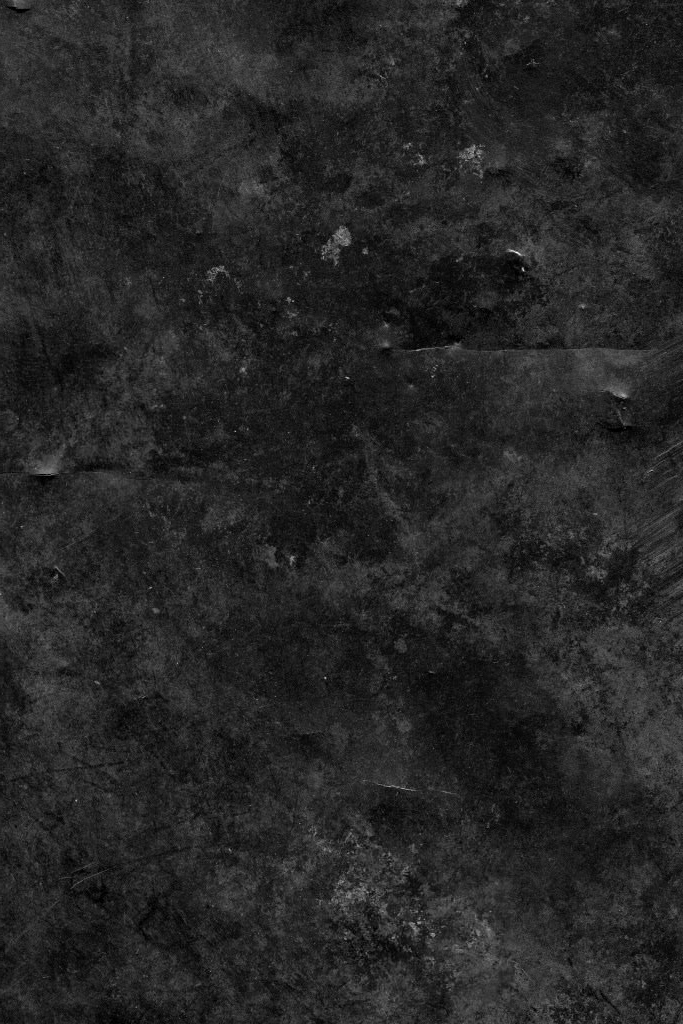
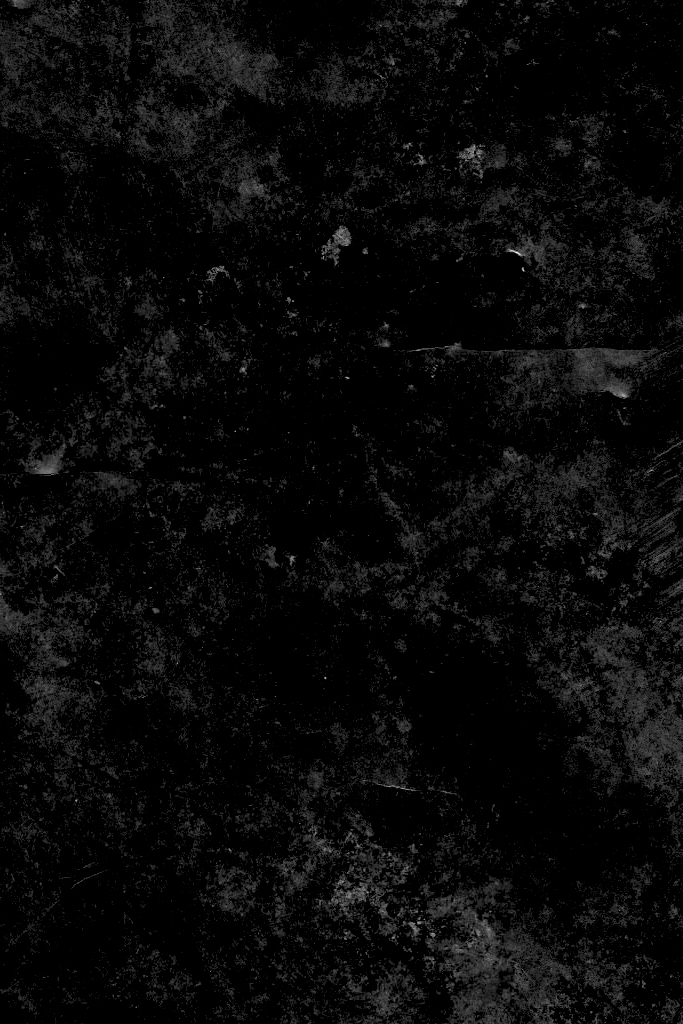
fixed bug when sending custom loadout to builder, darkened bg, and adjusted capitalization

diff --git a/lib/services/other_details.dart b/lib/services/other_details.dart
@@ -65,58 +65,52 @@ class OtherDetails extends StatelessWidget {
 
     Widget generalStatsWidget(Map generalData) {
       if (slot <= 1) {
-        return Padding(
-          padding: EdgeInsets.all(12),
-          child: Column(
-            crossAxisAlignment: CrossAxisAlignment.stretch,
-            children: [
-              Text(
-                'Ammo (# / Cost) :  ${generalData['ammo']} / ${generalData['ammo cost']} Parts',
-                textAlign: TextAlign.left,
-                style: TextStyle(
-                    color: Theme.of(context).accentColor, fontSize: 20),
-              ),
-              Text(
-                'Upgrade #1 :   ${generalData['cost lvl 1']} Parts',
-                textAlign: TextAlign.left,
-                style: TextStyle(
-                    color: Theme.of(context).accentColor, fontSize: 20),
-              ),
-              Text(
-                'Upgrade #2 :   ${generalData['cost lvl 2']} Parts',
-                textAlign: TextAlign.left,
-                style: TextStyle(
-                    color: Theme.of(context).accentColor, fontSize: 20),
-              ),
-            ],
-          ),
+        return Column(
+          crossAxisAlignment: CrossAxisAlignment.stretch,
+          children: [
+            Text(
+              'Ammo (# / Cost) :  ${generalData['ammo']} / ${generalData['ammo cost']} Parts',
+              textAlign: TextAlign.left,
+              style:
+                  TextStyle(color: Theme.of(context).accentColor, fontSize: 20),
+            ),
+            Text(
+              'Upgrade #1 :   ${generalData['cost lvl 1']} Parts',
+              textAlign: TextAlign.left,
+              style:
+                  TextStyle(color: Theme.of(context).accentColor, fontSize: 20),
+            ),
+            Text(
+              'Upgrade #2 :   ${generalData['cost lvl 2']} Parts',
+              textAlign: TextAlign.left,
+              style:
+                  TextStyle(color: Theme.of(context).accentColor, fontSize: 20),
+            ),
+          ],
         );
       } else {
-        return Padding(
-          padding: EdgeInsets.all(12),
-          child: Column(
-            crossAxisAlignment: CrossAxisAlignment.stretch,
-            children: [
-              Text(
-                'Purchase Cost :   ${generalData['purchase cost']} Parts',
-                textAlign: TextAlign.left,
-                style: TextStyle(
-                    color: Theme.of(context).accentColor, fontSize: 20),
-              ),
-              Text(
-                'Ammo (# / Initial Cost) :  ${generalData['ammo']} / ${generalData['initial ammo cost']} Parts',
-                textAlign: TextAlign.left,
-                style: TextStyle(
-                    color: Theme.of(context).accentColor, fontSize: 20),
-              ),
-              Text(
-                'Clip Size :   ${generalData['clip size']}',
-                textAlign: TextAlign.left,
-                style: TextStyle(
-                    color: Theme.of(context).accentColor, fontSize: 20),
-              ),
-            ],
-          ),
+        return Column(
+          crossAxisAlignment: CrossAxisAlignment.stretch,
+          children: [
+            Text(
+              'Purchase Cost :   ${generalData['purchase cost']} Parts',
+              textAlign: TextAlign.left,
+              style:
+                  TextStyle(color: Theme.of(context).accentColor, fontSize: 20),
+            ),
+            Text(
+              'Ammo (# / Initial Cost) :  ${generalData['ammo']} / ${generalData['initial ammo cost']} Parts',
+              textAlign: TextAlign.left,
+              style:
+                  TextStyle(color: Theme.of(context).accentColor, fontSize: 20),
+            ),
+            Text(
+              'Clip Size :   ${generalData['clip size']}',
+              textAlign: TextAlign.left,
+              style:
+                  TextStyle(color: Theme.of(context).accentColor, fontSize: 20),
+            ),
+          ],
         );
       }
     }
@@ -436,6 +430,12 @@ class OtherDetails extends StatelessWidget {
         return Column(
           crossAxisAlignment: CrossAxisAlignment.stretch,
           children: [
+            statBars(),
+            Divider(
+              thickness: 2,
+              height: 30,
+              color: Theme.of(context).accentColor,
+            ),
             Text(
               'General Stats',
               textAlign: TextAlign.left,
@@ -443,8 +443,13 @@ class OtherDetails extends StatelessWidget {
                   TextStyle(color: Theme.of(context).accentColor, fontSize: 25),
             ),
             Padding(
-              padding: const EdgeInsets.fromLTRB(12, 0, 12, 16),
+              padding: const EdgeInsets.fromLTRB(12, 12, 12, 0),
               child: generalStatsWidget(generalData),
+            ),
+            Divider(
+              thickness: 2,
+              height: 30,
+              color: Theme.of(context).accentColor,
             ),
             Text(
               'Damage Stats',
@@ -453,8 +458,13 @@ class OtherDetails extends StatelessWidget {
                   TextStyle(color: Theme.of(context).accentColor, fontSize: 25),
             ),
             Padding(
-              padding: const EdgeInsets.fromLTRB(12, 0, 12, 16),
+              padding: const EdgeInsets.fromLTRB(12, 0, 12, 12),
               child: damageStatsWidget(damageData),
+            ),
+            Divider(
+              thickness: 2,
+              height: 30,
+              color: Theme.of(context).accentColor,
             ),
             Text(
               'Upgrade Stats',
@@ -475,6 +485,12 @@ class OtherDetails extends StatelessWidget {
         return Column(
           crossAxisAlignment: CrossAxisAlignment.stretch,
           children: [
+            statBars(),
+            Divider(
+              thickness: 2,
+              height: 30,
+              color: Theme.of(context).accentColor,
+            ),
             Text(
               'General Stats',
               textAlign: TextAlign.left,
@@ -482,8 +498,13 @@ class OtherDetails extends StatelessWidget {
                   TextStyle(color: Theme.of(context).accentColor, fontSize: 25),
             ),
             Padding(
-              padding: const EdgeInsets.fromLTRB(12, 0, 12, 16),
+              padding: const EdgeInsets.fromLTRB(12, 12, 12, 0),
               child: generalStatsWidget(generalData),
+            ),
+            Divider(
+              thickness: 2,
+              height: 30,
+              color: Theme.of(context).accentColor,
             ),
             Text(
               'Damage Stats',
@@ -501,43 +522,10 @@ class OtherDetails extends StatelessWidget {
       return Container();
     }
 
-    if (slot <= 1) {
-      return Column(
-        crossAxisAlignment: CrossAxisAlignment.stretch,
-        children: [
-          statBars(),
-          Divider(
-            thickness: 2,
-            height: 30,
-            color: Theme.of(context).accentColor,
-          ),
-          statsWidgets(),
-        ],
-      );
-    } else if (slot == 6) {
-      return Column(
-        crossAxisAlignment: CrossAxisAlignment.stretch,
-        children: [
-          statBars(),
-          Divider(
-            thickness: 2,
-            height: 30,
-            color: Theme.of(context).accentColor,
-          ),
-          statsWidgets(),
-        ],
-      );
+    if (slot <= 1 || slot == 6) {
+      return statsWidgets();
     } else {
-      return Column(
-        children: [
-          Divider(
-            thickness: 2,
-            height: 30,
-            color: Theme.of(context).accentColor,
-          ),
-          statsWidgets(),
-        ],
-      );
+      return Container();
     }
   }
 }

diff --git a/lib/app.dart b/lib/app.dart
@@ -4,9 +4,11 @@ import 'package:flutter/material.dart';
 import 'package:provider/provider.dart';
 import 'package:tlou_loadout/loadout_model.dart';
 import 'package:tlou_loadout/my_loadouts_model.dart';
+import 'package:tlou_loadout/pages/item_select.dart';
 import 'package:tlou_loadout/pages/loadout_builder.dart';
 import 'package:tlou_loadout/pages/my_loadouts.dart';
 import 'package:path_provider/path_provider.dart';
+import 'package:firebase_dynamic_links/firebase_dynamic_links.dart';
 
 class App extends StatefulWidget {
   @override
@@ -17,9 +19,25 @@ class _AppState extends State<App> {
   AssetImage bg;
   final titleController = TextEditingController();
 
+  void initDynamicLinks() async {
+    final PendingDynamicLinkData data =
+        await FirebaseDynamicLinks.instance.getInitialLink();
+    final Uri deeplink = data?.link;
+
+    if (deeplink.path == '?q=01082617171775') {
+      Navigator.of(context).push(
+        PageRouteBuilder(
+          pageBuilder: (_, __, ___) => ItemSelect(),
+          transitionDuration: Duration(seconds: 0),
+        ),
+      );
+    }
+  }
+
   @override
   void initState() {
     super.initState();
+    initDynamicLinks();
     bg = AssetImage('assets/bg.jpg');
     getApplicationDocumentsDirectory().then((Directory directory) {
       Provider.of<MyLoadoutsModel>(context, listen: false).jsonFile =
@@ -66,8 +84,8 @@ class _AppState extends State<App> {
           //title: Text('Enter loadout title:'),
           contentPadding: EdgeInsets.fromLTRB(16, 16, 16, 0),
           content: TextField(
-            controller: titleController,
             textCapitalization: TextCapitalization.characters,
+            controller: titleController,
             decoration: InputDecoration(
               hintText: 'ENTER LOADOUT NAME',
               border: OutlineInputBorder(),
@@ -107,7 +125,7 @@ class _AppState extends State<App> {
       LoadoutBuilder(),
       MyLoadouts(),
     ],
-    'title': ['Loadout Builder', 'My Loadouts']
+    'title': ['BUILDER', 'MY LOADOUTS']
   };
 
   @override
@@ -180,7 +198,9 @@ class _AppState extends State<App> {
                       ),
                       IconButton(
                         icon: Icon(
-                          loadoutModel.wasJustSent ? Icons.done : Icons.save,
+                          loadoutModel.wasJustSent
+                              ? Icons.done
+                              : Icons.bookmark_border,
                           color: Theme.of(context).accentColor,
                         ),
                         onPressed: () {
@@ -204,9 +224,9 @@ class _AppState extends State<App> {
                                 color: Theme.of(context).accentColor,
                               ),
                               onPressed: () {
+                                loadoutModel.resetLoadout();
                                 loadoutModel.setWasJustSent(false);
                                 loadoutModel.setCurrentIndex(1);
-                                loadoutModel.resetLoadout();
                               },
                             )
                           : Container(),
@@ -244,11 +264,11 @@ class _AppState extends State<App> {
                   items: [
                     BottomNavigationBarItem(
                       icon: Icon(Icons.build),
-                      title: Text('Loadout Builder'),
+                      title: Text('BUILDER'),
                     ),
                     BottomNavigationBarItem(
-                      icon: Icon(Icons.collections_bookmark),
-                      title: Text('My Loadouts'),
+                      icon: Icon(Icons.book),
+                      title: Text('MY LOADOUTS'),
                     ),
                   ],
                   onTap: (index) =>

diff --git a/lib/services/slot_card.dart b/lib/services/slot_card.dart
@@ -2,6 +2,7 @@ import 'package:auto_size_text/auto_size_text.dart';
 import 'package:flutter/material.dart';
 import 'package:provider/provider.dart';
 import 'package:tlou_loadout/loadout_model.dart';
+import 'package:tlou_loadout/my_loadouts_model.dart';
 import 'package:tlou_loadout/pages/item_select.dart';
 
 class SlotCard extends StatelessWidget {
@@ -25,11 +26,14 @@ class SlotCard extends StatelessWidget {
             ),
           );
           if (equippedIdLevel != null) {
+            print(Provider.of<MyLoadoutsModel>(context, listen: false)
+                .jsonFileContent);
             loadoutModel.equipItem(
-              equippedIdLevel['id'],
-              equippedIdLevel['level'],
+              equippedIdLevel,
               slot,
             );
+            print(Provider.of<MyLoadoutsModel>(context, listen: false)
+                .jsonFileContent);
           }
         }
 

diff --git a/lib/my_loadouts_model.dart b/lib/my_loadouts_model.dart
@@ -10,12 +10,11 @@ class MyLoadoutsModel extends ChangeNotifier {
   void updateJsonFileContent() {
     if (jsonFile.existsSync()) {
       jsonFileContent = json.decode(jsonFile.readAsStringSync());
-      print('updated content');
     }
   }
 
   void addLoadout(String name, List loadout) async {
-    var newLoadout = {name: loadout};
+    var newLoadout = {name.toUpperCase(): loadout};
     if (jsonFile.existsSync()) {
       //add new loadout to file
       jsonFileContent.addAll(newLoadout);
@@ -34,7 +33,7 @@ class MyLoadoutsModel extends ChangeNotifier {
     if (jsonFile.existsSync()) {
       //add new loadout to file
       updateJsonFileContent();
-      jsonFileContent.remove(name);
+      jsonFileContent.remove(name.toUpperCase());
       jsonFile.writeAsString(json.encode(jsonFileContent));
       notifyListeners();
     }

diff --git a/lib/loadout_model.dart b/lib/loadout_model.dart
@@ -96,9 +96,9 @@ class LoadoutModel extends ChangeNotifier {
 
   int points = 13;
 
-  void equipItem(String id, int level, int slot) {
-    loadout[slot]['id'] = id;
-    loadout[slot]['level'] = level;
+  void equipItem(Map item, int slot) {
+    loadout[slot] = item;
+
     updatePoints();
     notifyListeners();
   }
@@ -148,7 +148,7 @@ class LoadoutModel extends ChangeNotifier {
   }
 
   void sendToBuilder(String name, List newLoadout) {
-    loadout = newLoadout;
+    loadout = List.from(newLoadout);
     wasJustSent = true;
     loadoutNameJustSent = name;
     currentIndex = 0;

diff --git a/lib/pages/my_loadouts.dart b/lib/pages/my_loadouts.dart
@@ -7,13 +7,6 @@ import 'package:tlou_loadout/services/loadout_card.dart';
 class MyLoadouts extends StatelessWidget {
   @override
   Widget build(BuildContext context) {
-    Future<Map> getSavedLoadouts() async {
-      var jsonText = await Provider.of<MyLoadoutsModel>(context, listen: false)
-          .jsonFile
-          .readAsString();
-      return json.decode(jsonText);
-    }
-
     Widget noSavedLoadouts() {
       return Center(
           child: Text(
